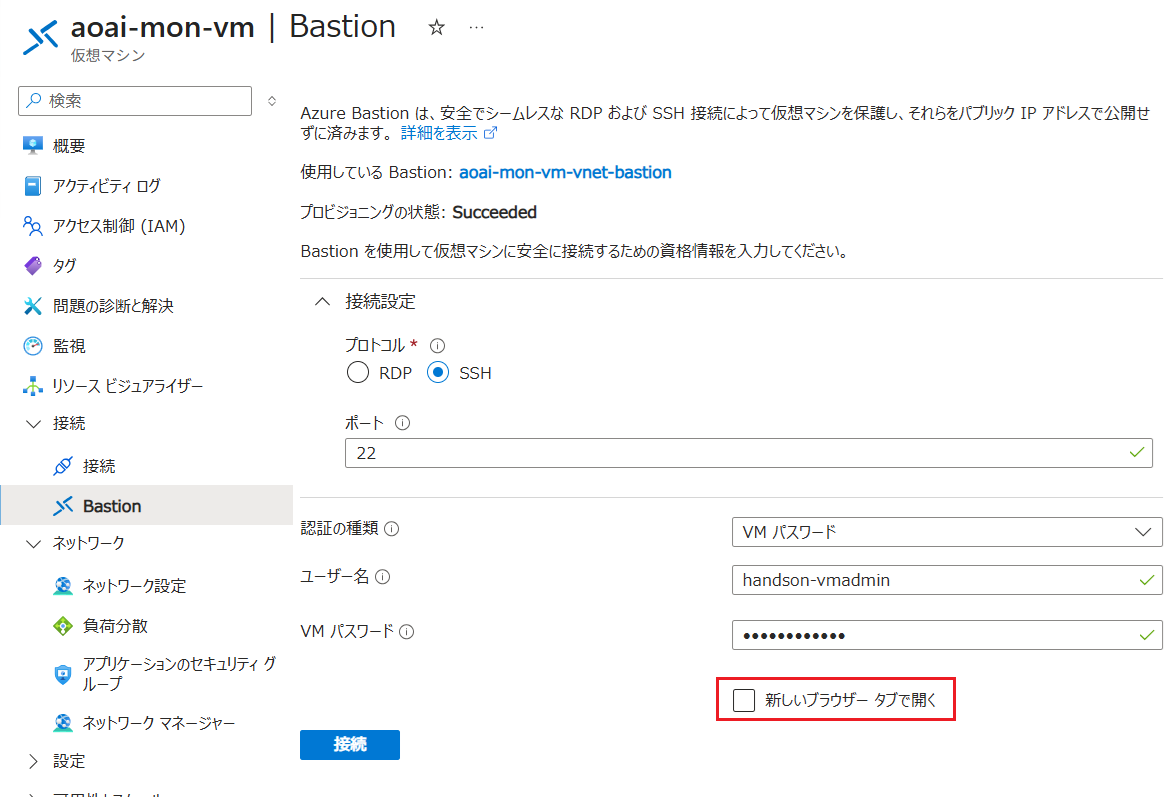
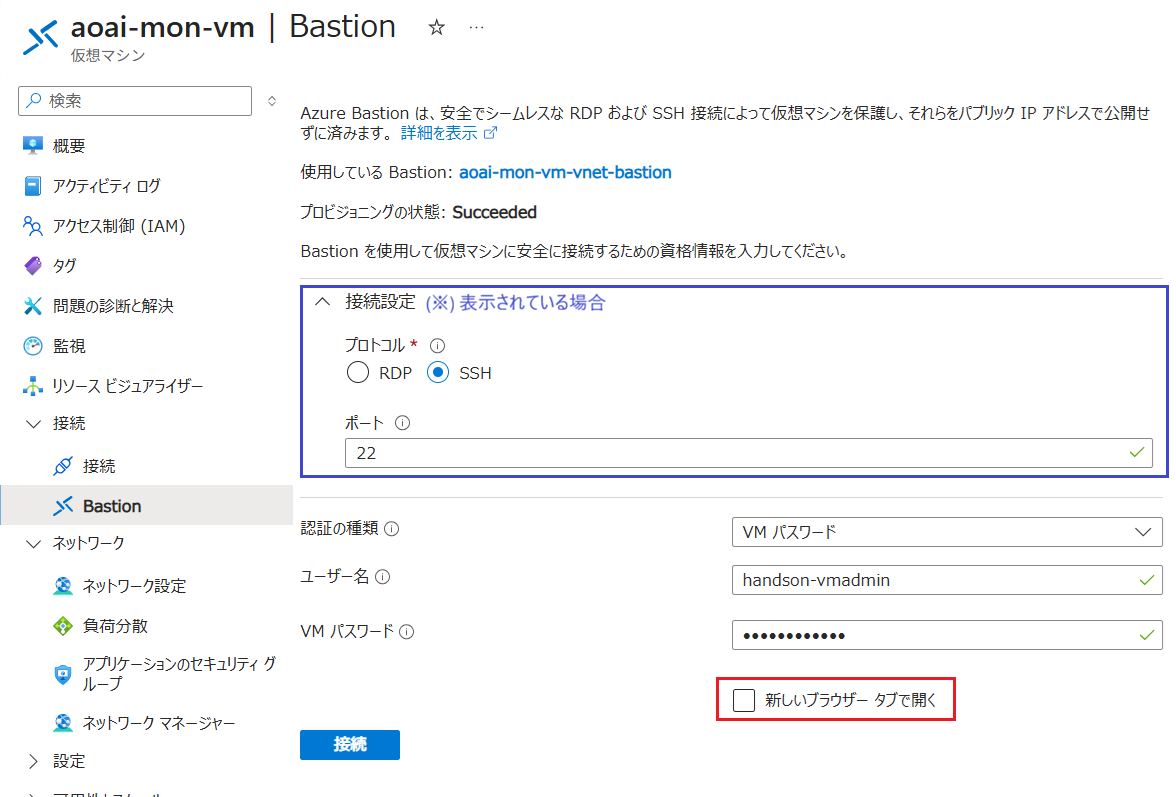
update vnet setting UI for aoai

Changed region(s): [[0.2449, 0.3614, 1.0, 0.6023], [0.2755, 0.3312, 0.9796, 0.3915]]

diff --git a/Ex05-1.md b/Ex05-1.md
@@ -241,7 +241,7 @@ Azure Portal を使用して仮想ネットワーク環境を作成します。
     |サブネット \*|\[**handson-subnet (10.0.0.0/24)**\]|
     |パブリック IP|\[**(新規) vnet-mon-aoai-vm-ip**\]|
     |NIC ネットワーク セキュリティ グループ|\[**詳細**\ にチェック]|
-    |ネットワーク セキュリティ グループの構成 /*|\[**(新規) vnet-mon-vm-nsg**\]|
+    |ネットワーク セキュリティ グループの構成 \*|\[**(新規) vnet-mon-vm-nsg**\]|
     |VM が削除されたときにパブリック IP と NIC を削除する|チェックしない(※任意)|
     |高速ネットワークを有効にする|チェック|
 
@@ -257,13 +257,15 @@ Azure Portal を使用して仮想ネットワーク環境を作成します。
 
 7. 仮想マシンのデプロイが完了すると \[**リソースに移動**\] ボタンが表示されるので、クリックして作成した仮想マシンのリソース画面に遷移します
 
-8. 画面左のメニューから \[**Bastion**\] をクリックし、遷移した画面で \[**Bastion のデプロイ**\] ボタンをクリックします
+8. 画面左のメニューから \[**Bastion**\] をクリックします
+
+    もし、遷移した画面で \[**Bastion のデプロイ**\] ボタンが表示されている場合はクリックします
     
     <img src="images/vm-connect-aoai-mk-bastion.png" width="700px">
     
     各項目を以下のように設定します
 
-    **接続設定**
+    **接続設定** (※表示されている場合のみ設定)
     |項目|設定値|
     |:---|:---|
     |プロトコル|\[**SSH**\]|

diff --git a/Ex05-2.md b/Ex05-2.md
@@ -317,7 +317,11 @@ Azure Portal を使用して仮想ネットワーク環境を作成します。
 
 11. 仮想マシンのターミナル画面上でマウスの右ボタンをクリックすると、貼り付けに関する確認メッセージが表示されるので \[**Paste anyway**\] ボタンをクリックします
 
-    ![Bastion 貼り付けの警告](images/Bastion_pate_confirm.png)    
+    ![Bastion 貼り付けの警告](images/Bastion_pate_confirm.png)
+
+    コマンド実行の際、セキュリティに関する警告が表示されることがありますが、\[`Y` キー\] を入力して続行します。
+
+    ![Bastion コマンド実行の警告](images/Bastion_warnning_command.png)
 
     貼り付けられたコマンドを実行し、正しく応答が返ってくることを確認します。
 
@@ -379,7 +383,7 @@ Azure Portal を使用して仮想ネットワーク環境を作成します。
    
    遷移した画面上部にある \[**+ 追加**\] ボタンをクリックします。
 
-   ![仮想ネットワーク ピアリングの追加](images/vnet-add-peering.png)
+   ![仮想ネットワーク ピアリングの追加](images/jpwestvnet-add-peering.png)
 
 2. ピアリングの設定画面で、以下の情報を入力します。
 
@@ -408,7 +412,7 @@ Azure Portal を使用して仮想ネットワーク環境を作成します。
 
     |項目|設定値|
     |:---|:---|
-    |ピアリング リンクの名前 \*|`jpeast-to-eastus`|
+    |ピアリング リンクの名前 \*|`jpwest-to-eastus`|
 
     **ローカル仮想ネットワーク ピアリングの設定**
     
